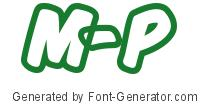
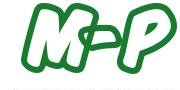
changes

diff --git a/style.css b/style.css
@@ -199,6 +199,43 @@ header .nav-login a {
     text-align:center;
 }
 
+.example0 {
+    background: url(image/short.jpg);
+    width: 192px;
+    height: 260px;
+    top:65%;
+    left:90%;
+    background-repeat: no-repeat;
+    align-content: center;
+    position: absolute;
+    transform: translate(-50%, -50%);
+    box-sizing: border-box;
+    padding: 70px 30px;
+}
+.example1 {
+    background: url(image/gen6.jpg);
+    width: 1420px;
+    height: 140px;
+    background-repeat: no-repeat;
+    align-content: center;
+    position: absolute;
+    top: 10%;
+    left:-5%;
+}
+.example2 {
+    width: 1120px;
+    height: 90px;
+    top: 40%;
+    left: 50%;
+    background: url(image/generatedtext.jpg);
+    background-repeat: no-repeat;
+    align-content: center;
+    position: absolute;
+    transform: translate(-50%, -50%);
+    box-sizing: border-box;
+    padding: 70px 30px;
+}
+
 /*Signup.php*/
 
 .signup-form {
@@ -218,6 +255,7 @@ header .nav-login a {
     font-size: 16px;
     color: #111;
     line-height: 40px;
+    border-radius:30px;
 }
 .signup-form select {
     width: 90%;
@@ -230,8 +268,9 @@ header .nav-login a {
     font-size: 16px;
     color: #111;
     line-height: 40px;
+    border-radius: 30px;
 }
-}
+
 .signup-form option{
     font-family: sans-serif;
     font-size: 16px;
@@ -250,6 +289,9 @@ header .nav-login a {
     font-size: 16px;
     color: #fff;
     cursor: pointer;
+    border-radius: 30px;
+    border-style: solid;
+    border-width: 1px;
 }
 
 .signup-form button:hover {

diff --git a/index.php b/index.php
@@ -4,11 +4,20 @@
 
 	<section class = "main-container">
 		<div class = "main-wrapper"></div>
+		<div class="example1"></div>
 		<div class="main-body">
-			<img src="image/generatedtext.jpg" alt="title">
+			<div class="example0"></div>
+			<div class="example2"></div>
+			
 			<?php
 
 			if(isset($_SESSION['username'])){
+				echo '<script type="text/javascript" >
+						function preventBack(){window.history.forward();}
+						setTimeout("preventBack()",0);
+						window.onunload=function(){null};
+						alert("Logout if you want to go back");
+					</script>';
 				
 			}
 		?>

diff --git a/dash.php b/dash.php
@@ -233,7 +233,7 @@ include 'includes/db.inc.php';
     
        
         <ul><li>
-                <p><b><a href="logoutad.php">Logout</a></b></p>
+                <p><b><a href="logout.inc.php">Logout</a></b></p>
             </li>
             <li>
                 <p><b><a href="ins.php">Insert New Order</a></b></p>
@@ -250,7 +250,7 @@ include 'includes/db.inc.php';
             
         </ul>
 
-    </div>
+    </div> 
 
   <!--  <div id=example3>
        <h4> M-Produce</h4>

diff --git a/login.php b/login.php
@@ -6,7 +6,7 @@
 		<div class = "main-wrapper">
 			<h2>LOGIN</h2>
 			<form class= "signup-form" action="includes/login.inc.php" method="POST">
-				<input type = "text" name = "username" placeholder="Username" required/>
+				<input type = "text" name = "username" placeholder="Username/Email" required/>
 				<input type = "password" name = "password" placeholder="Password" required/>
 				<button type = "submit" name ="submit">LOGIN</button> 
 			</form>

diff --git a/includes/logout.inc.php b/includes/logout.inc.php
@@ -5,8 +5,9 @@ if(isset($_POST['submit'])){
 	session_unset();
 	session_destroy();
 
-	header("Location: ../login.php?loggedout");
+	header("Location: ../header.php");
 	exit();
+
 }
 
 ?>
